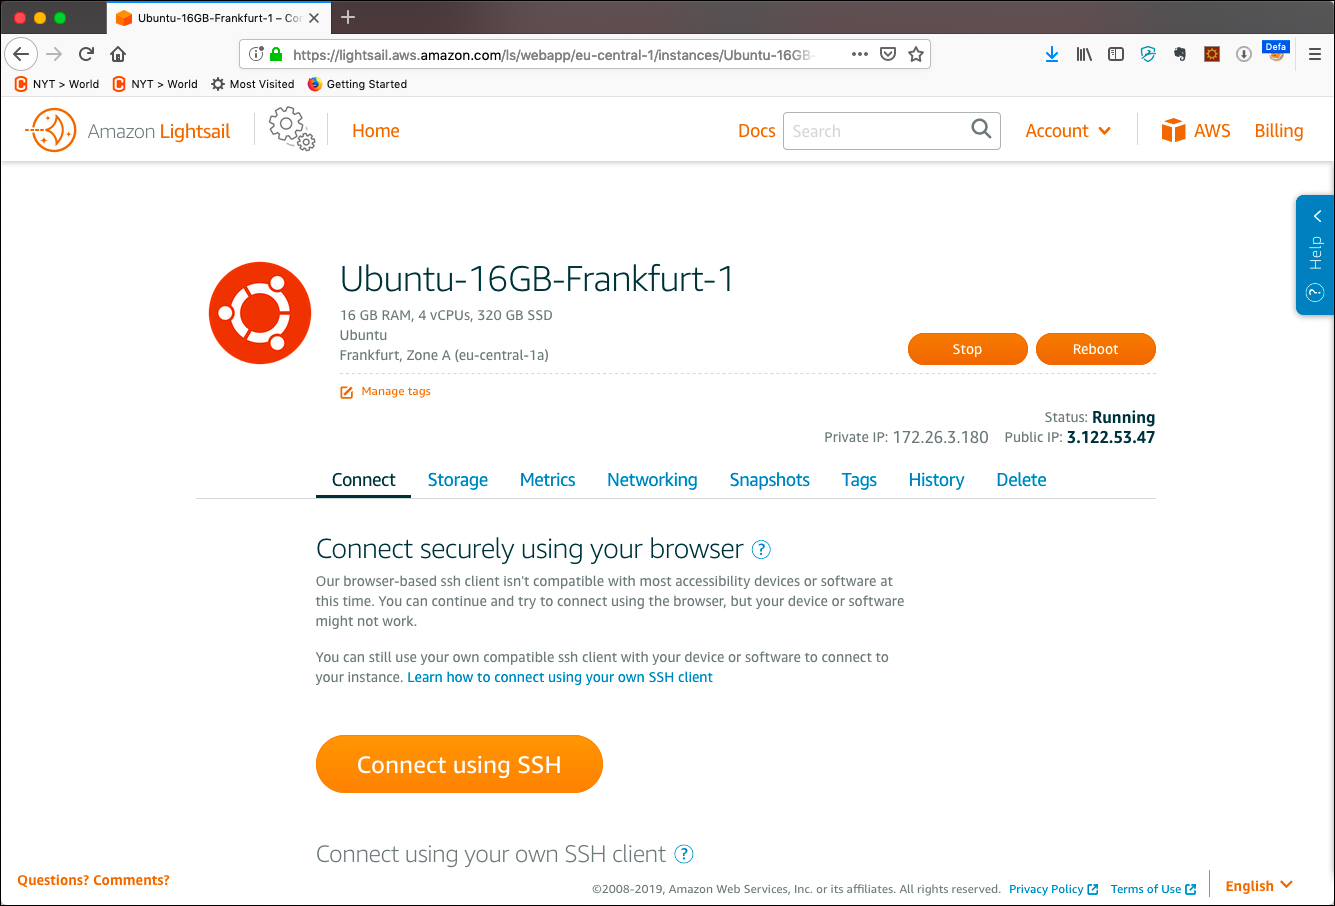
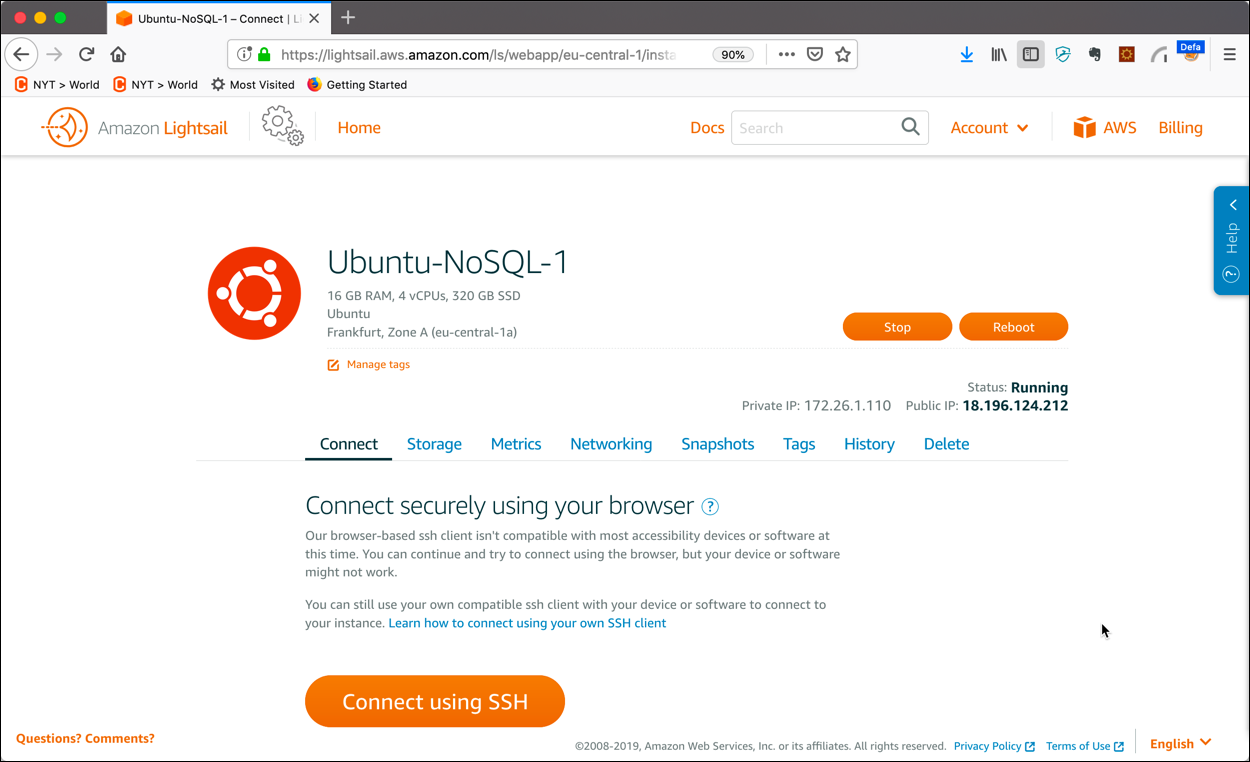
AWS Lightsail

diff --git a/01-environment/Lightsail.md b/01-environment/Lightsail.md
@@ -1,0 +1,106 @@
+# Provision in AWS Lightsail
+
+Navigate to the [AWS Console](http://console.aws.amazon.com) and login with your user. Click on the [Lightsail service](https://lightsail.aws.amazon.com/ls/webapp/home/instances).
+
+![Alt Image Text](./images/lightsail-homepage.png "Lightsail Homepage")
+
+Click **Create instance** to navigate to the **Create an instance** dialog. 
+
+![Alt Image Text](./images/lightsail-create-instance-1.png "Lightsail Homepage")
+
+Optionally change the **Instance Location** to a AWS region of your liking.
+Keep **Linux/Unix** for the **Select a platform** and click on **OS Only** and select **Ubuntu 18.04 LTS** for the **Select a blueprint**. 
+
+![Alt Image Text](./images/lightsail-create-instance-2.png "Lightsail Homepage")
+
+Scroll down to **Launch script** and add the the following script to the edit field. 
+
+```
+# Install Docker and Docker Compose
+curl -fsSL https://download.docker.com/linux/ubuntu/gpg | sudo apt-key add -
+add-apt-repository "deb [arch=amd64] https://download.docker.com/linux/ubuntu $(lsb_release -cs) stable edge"
+apt-get install -y docker-ce
+sudo usermod -aG docker ubuntu
+
+# Install Docker Compose
+curl -L "https://github.com/docker/compose/releases/download/1.24.0/docker-compose-$(uname -s)-$(uname -m)" -o /usr/local/bin/docker-compose
+chmod +x /usr/local/bin/docker-compose
+ln -s /usr/local/bin/docker-compose /usr/bin/docker-compose
+
+# Prepare Environment Variables
+export PUBLIC_IP=$(curl ipinfo.io/ip)
+export DOCKER_HOST_IP=$(ip addr show eth0 | grep "inet\b" | awk '{print $2}' | cut -d/ -f1)
+
+# needed for elasticsearch
+sudo sysctl -w vm.max_map_count=262144   
+
+# Get the project
+cd /home/ubuntu 
+git clone https://github.com/gschmutz/nosql-workshop.git
+chown -R ubuntu:ubuntu nosql-workshop
+cd nosql-workshop/01-environment/docker
+
+# Startup Environment
+sudo -E docker-compose up -d
+```
+
+![Alt Image Text](./images/lightsail-create-instance-3.png "Lightsail Homepage")
+
+Click on **Change SSH key pair** and leave the **Default** selected and then click on **Download** and save the file to a convinient location on your machine. Under **Choose your instance plan** click on the arrow on the right and select the **16 GB** instance.   
+
+Under **Identify your istance** enter **Ubuntu-NoSQL-1** into the edit field. 
+
+![Alt Image Text](./images/lightsail-create-instance-4.png "Lightsail Homepage")
+
+Click on **Create Instance** to start provisioning the instance. 
+
+The new instance will show up in the Instances list on the Lightsail homepage. 
+
+![Alt Image Text](./images/lightsail-image-started.png "Lightsail Homepage")
+
+Click on the instance to navigate to the image details page. On the right you can find the Public IP address **18.196.124.212** of the newly created instance.
+
+![Alt Image Text](./images/lightsail-image-details.png "Lightsail Homepage")
+
+Click **Connect using SSH** to open the console and enter the follwoing command to watch the log file of the init script.
+
+```
+tail -f /var/log/cloud-init-output.log --lines 1000
+```
+
+The initializatio is finished when you see the `Creating xxxxx .... done` lines after all the docker images have been downloaded, which takes a couple of minutes. 
+
+![Alt Image Text](./images/lightsail-create-instance-log-file.png "Lightsail Homepage")
+
+Optionally you can also SSH into the Lightsail instance using the **SSH key pair** you have downloaded above. For that open a terminal window (on Mac / Linux) or Putty (on Windows) and connect as ubuntu to the Public IP address of the instance.   
+
+```
+ssh -i LightsailDefaultKey-eu-central-1.pem ubuntu@18.196.124.212 
+```
+
+So with all services running, there is one last step to do. We have to configure the Firewall to allow traffic into the Lightsail instance. 
+
+![Alt Image Text](./images/lightsail-image-networking.png "Lightsail Homepage")
+
+Click on the **Networking** tab/link to navigate to the network settings and under **Firewall** click on ** **Add another**.
+For simplicity reasons, we allow all TCP traffic by selecting **All TCP** on port range **0 - 65535** and then click 
+
+![Alt Image Text](./images/lightsail-image-networking-add-firewall-rule.png "Lightsail Homepage")
+
+
+
+## Deprovisiongin the environment
+To stop the environment, execute the following command:
+
+```
+docker-compose stop
+```
+
+after that it can be re-started using `docker-compose start`.
+
+To stop and remove all running container, execute the following command:
+
+```
+docker-compose down
+```
+

diff --git a/01-environment/README.md b/01-environment/README.md
@@ -16,19 +16,44 @@ You have the follwing options to start the environment:
 Copy the Virtual Machine files to your local machine and start it up. 
 
 ```
+# Prepare Environment Variables
 export PUBLIC_IP=$(curl ipinfo.io/ip)
 export DOCKER_HOST_IP=$(ip addr show eth0 | grep "inet\b" | awk '{print $2}' | cut -d/ -f1)
+
+# needed for elasticsearch
+sudo sysctl -w vm.max_map_count=262144   
+
+# Get the project
+cd /home/ubuntu 
 git clone https://github.com/gschmutz/nosql-workshop.git
-cd ksql-workshop/01-environment/docker
+chown -R ubuntu:ubuntu nosql-workshop
+cd nosql-workshop/01-environment/docker
 
 # Startup Environment
-docker-compose up -d
+sudo -E docker-compose up -d
 ```
-
 
 ### Local Docker Installation
 
+But 
 
+```
+# Prepare Environment Variables
+export PUBLIC_IP=$(curl ipinfo.io/ip)
+export DOCKER_HOST_IP=$(ip addr show eth0 | grep "inet\b" | awk '{print $2}' | cut -d/ -f1)
+
+# needed for elasticsearch
+sudo sysctl -w vm.max_map_count=262144   
+
+# Get the project
+cd /home/ubuntu 
+git clone https://github.com/gschmutz/nosql-workshop.git
+chown -R ubuntu:ubuntu nosql-workshop
+cd nosql-workshop/01-environment/docker
+
+# Startup Environment
+sudo -E docker-compose up -d
+```
 
 ### AWS Lightsail
 To start the whole stack on AWS Lightsail, use the following script
@@ -71,11 +96,13 @@ tail -f /var/log/cloud-init-output.log
 
 
 ### Add entry to local /etc/hosts File
-To simplify working with the Streaming Platform, add the following entry to your local `/etc/hosts` file. 
+To simplify working with the Streaming Platform and for the links below to work, add the following entry to your local `/etc/hosts` file. 
 
 ```
 40.91.195.92	nosqlplatform
 ```
+
+Replace the IP address by the PUBLIC IP of the docker host. 
 
 ## Services accessible on Streaming Platform
 The following service are available as part of the platform:
